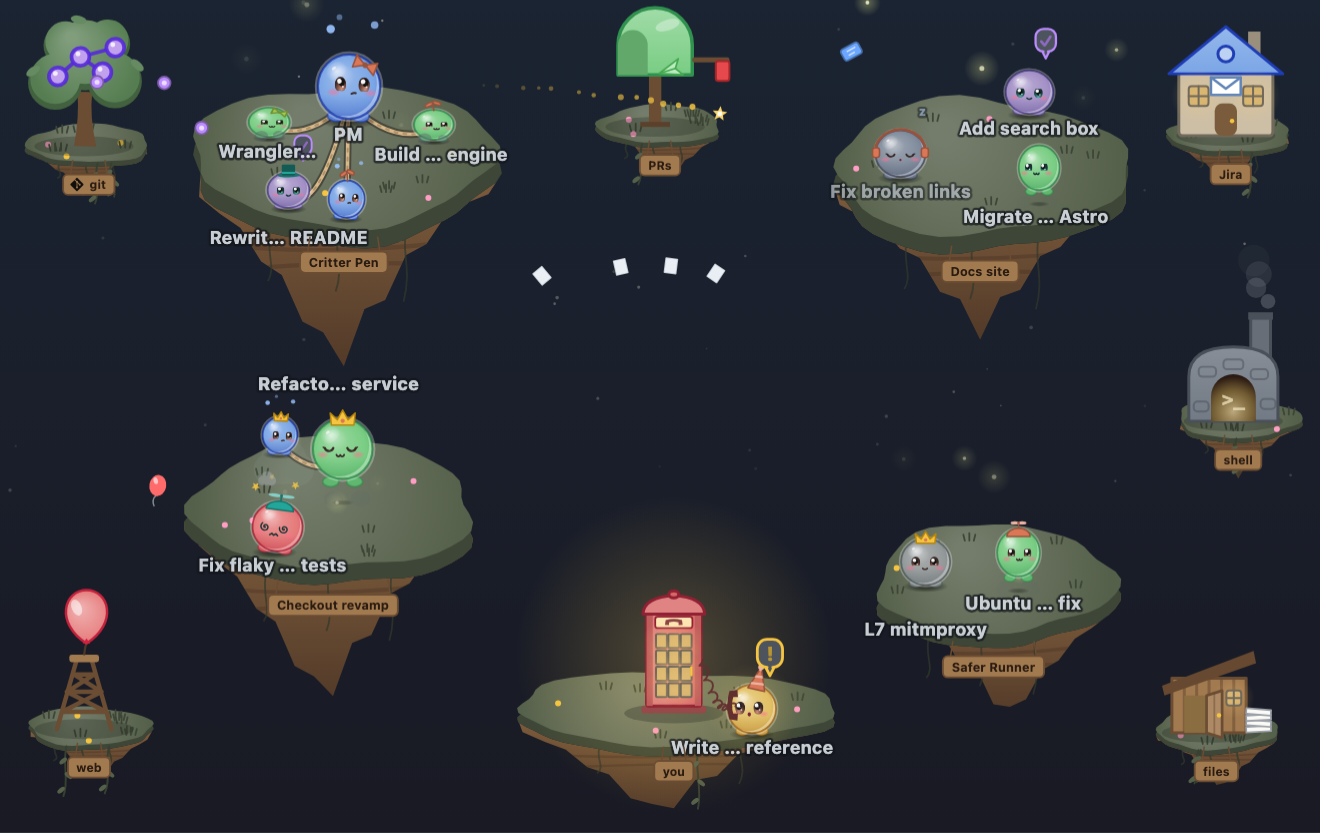
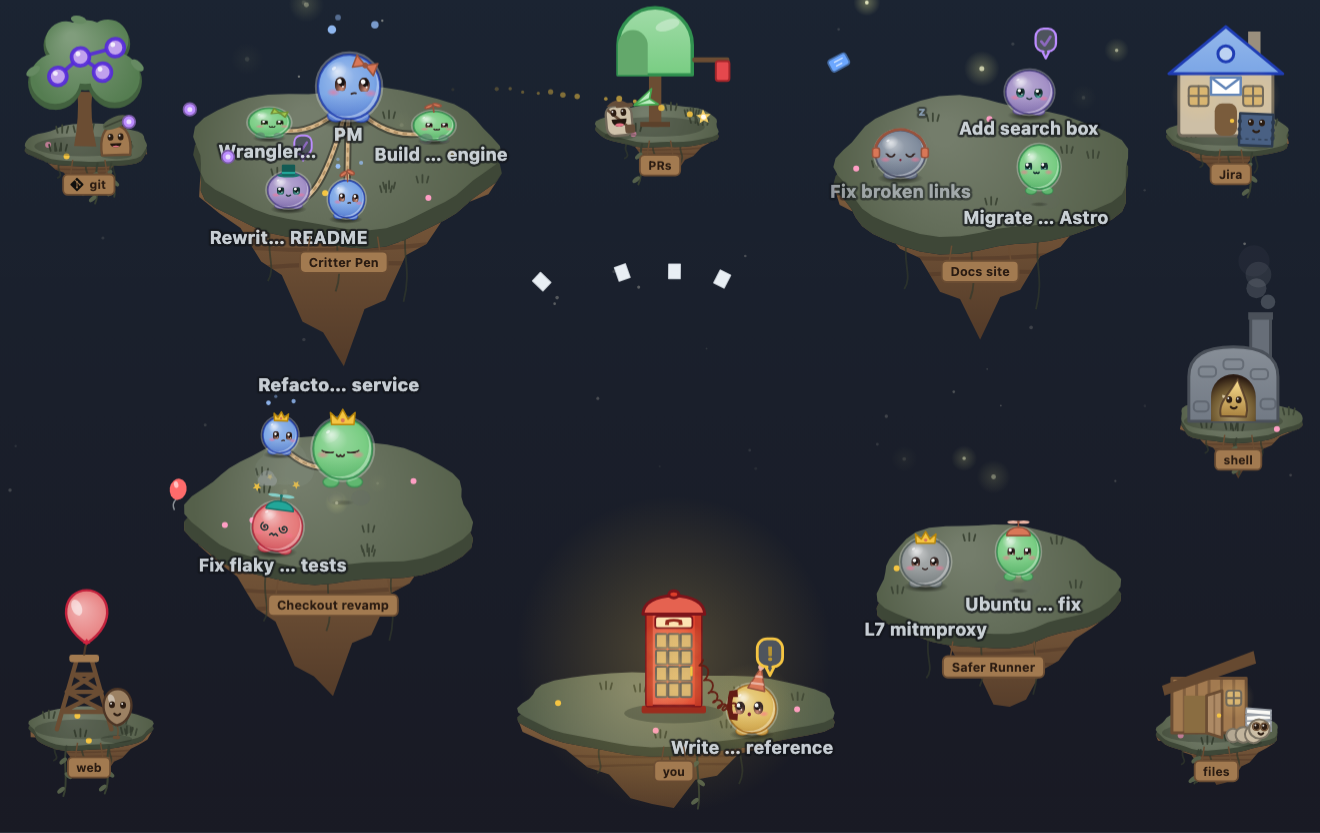
Wire the service keepers: projectiles land in their mouths
- Projectiles aim at keeperMouth (riding the islet bob); each launch records
  its landing time so the keeper anticipates, chomps on landing and goes
  full after a burst (catchStateAt over catchProgress/recentCatches).
- Under reduced motion the projectile fades out at the keeper's mouth.
- Keepers are blocked areas for name labels and show their name on hover
  (no click). Event labels float clear of the keeper.
- README 'Keepers' line, DESIGN paragraph, catch-state test, screenshots.

diff --git a/public/engine/pen.js b/public/engine/pen.js
@@ -7,6 +7,7 @@ import { readTheme, toCss, mix, lighten, darken, statusColor } from './color.js'
 import { computeLayout, islandPoint, pickAt, LANDMARK_LABELS } from './layout.js';
 import { createWander, stepWander, wanderPace, separate, islandAxes, PERSONAL_SPACE, DEPTH_WEIGHT } from './wander.js';
 import { drawIsland, drawSignpost, drawBuilding, drawLeash } from './scene.js';
+import { drawKeeper, keeperMouth, keeperHitbox, catchProgress, recentCatches, KEEPER_NAMES } from './buildings.js';
 import { drawCarrier, drawServiceBuilding, drawCaptionPlank, isletFootprint, isletBob, bellQueueSlots, buildingFootprint,
   PHONE_HOLDER_SLOT, phoneSocket, receiverSpot, drawPhoneReceiver } from './buildings.js';
 import { placeLabels, stripTaskPrefix, shortLabel } from './labels.js';
@@ -31,6 +32,20 @@ const FONT_FLOAT = '700 11px system-ui, -apple-system, Segoe UI, sans-serif';
 
 /** Body colour for a status in the current palette (pastel-tuned; lives in color.js). */
 export { statusColor };
+
+/**
+ * A keeper's catch state from the landing times of projectiles aimed at it
+ * (past and still in flight): the newest catch in progress, and how many
+ * landed in the last moment (enough of them and it looks full).
+ */
+export function catchStateAt(lands, now) {
+  let progress = null, latest = -Infinity;
+  for (const at of lands) {
+    const p = catchProgress(now, at);
+    if (p != null && at > latest) { latest = at; progress = p; }
+  }
+  return { progress, recent: recentCatches(lands, now) };
+}
 
 /**
  * Mount a pen into `el` (which must have a size; the canvas fills it).
@@ -65,6 +80,8 @@ export function createPen(el, opts = {}) {
   // ── islands / wander ──
   const islandViz = new Map(); // taskId → eased island geometry + bob
   const bellQueue = []; // ids of critters waiting at the bell, in arrival order
+  const keeperLands = new Map(); // kind → landing times (past and in flight) of projectiles at its keeper
+  let hoveredKeeper = null;
   const projectiles = [], particles = [], floaters = [];
   const lmState = new Map(LANDMARK_KINDS.map((k) => [k, { pulseAge: 9, ringAge: 9, glowAge: 9, wiggleAge: 9 }]));
   const pendingBaby = new Map(); // parentId → { x, y, at }
@@ -244,6 +261,14 @@ export function createPen(el, opts = {}) {
         s.visit = { lm, age: 0, stage: 'go', label: ev.label };
         return;
       }
+      const mouth = keeperTarget(ev.kind);
+      if (from && reduced && mouth) {
+        // Reduced motion: no flight; the projectile fades into the keeper's mouth.
+        projectiles.push({ kind: ev.kind, fadeAt: mouth, p0: mouth, p1: mouth, p2: mouth, age: 0, delay: 0, dur: 0.45, last: true, label: ev.label, lm });
+        noteLanding(ev.kind, time + 0.45);
+        flash(s, kindColor(ev.kind, pal));
+        return;
+      }
       if (!from || reduced) {
         hitLandmark(lm, ev.label);
         if (alive) flash(s, kindColor(ev.kind, pal));
@@ -292,7 +317,8 @@ export function createPen(el, opts = {}) {
     s.throwAge = 0;
     s.lookAt = { x: lm.x, y: lm.y };
     s.lookUntil = time + 1.2;
-    const to = { x: lm.x, y: lm.y };
+    // Aim for the service keeper's mouth (it catches and eats them), else the building.
+    const to = keeperTarget(kind) || { x: lm.x, y: lm.y };
     const dist = Math.hypot(to.x - from.x, to.y - from.y);
     const base = clamp(dist / 520, 0.55, 1.15);
     const count = kind === 'git' ? 3 : kind === 'files' ? 4 : 1;
@@ -301,13 +327,42 @@ export function createPen(el, opts = {}) {
       const ctl = arcControl(from, to, 6);
       ctl.x += jitter;
       if (kind === 'web') ctl.y = Math.max(6, ctl.y - 40);
-      projectiles.push({
+      const p = {
         kind, p0: { ...from }, p1: ctl, p2: to, age: 0,
         delay: 0.08 + i * (kind === 'git' ? 0.11 : 0.06),
         dur: kind === 'web' ? base * 1.7 : base + i * 0.03,
         last: i === count - 1, label, lm, sway: kind === 'web' ? 10 : 0,
-      });
+      };
+      projectiles.push(p);
+      noteLanding(kind, time + p.delay + p.dur); // the keeper starts its catch just before
     }
+  }
+
+  /** Where a service keeper's mouth is now (riding its islet), or null if it has none. */
+  function keeperTarget(kind) {
+    const isl = layout?.islets?.find((i) => i.kind === kind);
+    const m = isl && keeperMouth(kind, isl.scale);
+    if (!m) return null;
+    const base = isletBase(isl);
+    return { x: base.x + m.dx, y: base.y + m.dy };
+  }
+
+  function noteLanding(kind, at) {
+    if (!keeperLands.has(kind)) keeperLands.set(kind, []);
+    const list = keeperLands.get(kind);
+    list.push(at);
+    while (list.length && list[0] < time - 3) list.shift(); // only the last few seconds matter
+  }
+
+  /** The service keeper (not the phone box's) under (x, y), for its hover tooltip. */
+  function pickKeeper(x, y) {
+    for (const isl of layout?.islets || []) {
+      const hb = keeperHitbox(isl.kind, isl.scale);
+      if (!hb) continue;
+      const base = isletBase(isl);
+      if (Math.hypot(x - (base.x + hb.dx), y - (base.y + hb.dy)) <= hb.r) return isl;
+    }
+    return null;
   }
 
   function hitLandmark(lm, label) {
@@ -316,8 +371,17 @@ export function createPen(el, opts = {}) {
     if (lm.kind === 'human') st.wiggleAge = 0;
     if (!reduced) burst(lm.x, lm.y, 'spark', 7, kindColor(lm.kind, pal));
     if (label) {
-      const dir = lm.side === 'top' ? 1 : -1;
-      floatText(label, lm.x, lm.y + dir * (lm.r + 16), kindColor(lm.kind, pal), dir);
+      const isl = lm.islet && layout?.islets?.find((i) => i.kind === lm.kind);
+      if (isl) {
+        // Rise from above the building, clear of its keeper; if that's off the top
+        // of the pen, drop from under its caption plank instead.
+        const base = isletBase(isl), top = base.y - buildingFootprint(isl.kind, isl.scale).top - 12;
+        if (top > 30) floatText(label, base.x, top, kindColor(lm.kind, pal), -1);
+        else floatText(label, isl.x, base.captionY + 30, kindColor(lm.kind, pal), 1);
+      } else {
+        const dir = lm.side === 'top' ? 1 : -1;
+        floatText(label, lm.x, lm.y + dir * (lm.r + 16), kindColor(lm.kind, pal), dir);
+      }
     }
   }
 
@@ -438,6 +502,8 @@ export function createPen(el, opts = {}) {
     for (const i of layout.islets) {
       const bf = buildingFootprint(i.kind, i.scale), base = isletBase(i);
       out.push({ l: base.x - bf.w / 2, r: base.x + bf.w / 2, t: base.y - bf.top, b: base.y });
+      const hb = keeperHitbox(i.kind, i.scale);
+      if (hb) out.push({ l: base.x + hb.dx - hb.r, r: base.x + hb.dx + hb.r, t: base.y + hb.dy - hb.r, b: base.y + hb.dy + hb.r });
       const sc = clamp(i.scale, 0.8, 1.2), w = (ctx.measureText(LANDMARK_LABELS[i.kind]).width + 14) * sc;
       out.push({ l: i.x - w / 2, r: i.x + w / 2, t: base.captionY, b: base.captionY + 17 * sc });
     }
@@ -612,7 +678,7 @@ export function createPen(el, opts = {}) {
       const p = projectiles[i];
       if (p.delay > 0) { p.delay -= dt; continue; }
       p.age += dt;
-      if (p.kind === 'terminal' && rnd() < 0.7) {
+      if (p.kind === 'terminal' && !p.fadeAt && rnd() < 0.7) {
         const pos = quad(p.p0, p.p1, p.p2, Math.min(1, p.age / p.dur));
         addParticle({ type: 'spark', x: pos.x, y: pos.y, vx: (rnd() - 0.5) * 30, vy: (rnd() - 0.5) * 30, life: 0.35, size: 1.5 + rnd(), color: pal.yellow, drag: 0.9 });
       }
@@ -1063,6 +1129,13 @@ export function createPen(el, opts = {}) {
     // Projectiles.
     for (const p of projectiles) {
       if (p.delay > 0) continue;
+      if (p.fadeAt) { // reduced motion: fade into the keeper's mouth, no flight
+        ctx.save();
+        ctx.globalAlpha *= 1 - clamp(p.age / p.dur, 0, 1);
+        drawProjectile(ctx, p.kind, p.fadeAt.x, p.fadeAt.y, 0, 0, pal, clamp(layout.radius / 16, 0.75, 1.25));
+        ctx.restore();
+        continue;
+      }
       const k = clamp(p.age / p.dur, 0, 1);
       const tk = p.kind === 'web' ? ease.inOutSine(k) : k;
       const pos = quad(p.p0, p.p1, p.p2, tk);
@@ -1119,6 +1192,20 @@ export function createPen(el, opts = {}) {
       ctx.fillText(f.text, x, y + 0.5);
     }
 
+    // Hover tooltip for a service keeper: just its name.
+    if (hoveredKeeper && layout.islets?.includes(hoveredKeeper)) {
+      const hb = keeperHitbox(hoveredKeeper.kind, hoveredKeeper.scale), base = isletBase(hoveredKeeper);
+      const text = KEEPER_NAMES[hoveredKeeper.kind];
+      ctx.font = '600 12px system-ui, -apple-system, Segoe UI, sans-serif';
+      const w = ctx.measureText(text).width + 16;
+      const x = clamp(base.x + hb.dx, w / 2 + 4, W - w / 2 - 4), y = Math.max(16, base.y + hb.dy - hb.r - 14);
+      ctx.fillStyle = toCss(pal.fg, 0.92);
+      roundRect(ctx, x - w / 2, y - 11, w, 22, 6); ctx.fill();
+      ctx.fillStyle = toCss(pal.bg);
+      ctx.textAlign = 'center'; ctx.textBaseline = 'middle';
+      ctx.fillText(text, x, y + 0.5);
+    }
+
     // Hover tooltip: full name + status.
     const hs = hovered && sprites.get(hovered);
     if (hs && hs.life !== 'leave') {
@@ -1141,6 +1228,8 @@ export function createPen(el, opts = {}) {
     const hit = reduced ? 0 : clamp(1 - st.pulseAge / 0.9, 0, 1);
     const base = drawCarrier(ctx, 'islet', i.kind, i.x, i.y, i.scale, pal, time, { reduced });
     drawServiceBuilding(ctx, i.kind, base.x, base.y, i.scale, pal, time, { hit, waiting: i.kind === 'human' && needsYou ? 1 : 0, reduced });
+    // Its keeper stands in front, catching what's thrown at it (the phone box has none).
+    drawKeeper(ctx, i.kind, base.x, base.y, i.scale, pal, time, catchStateAt(keeperLands.get(i.kind) || [], time), { reduced });
   }
 
   // ── loop, sizing, theme, input ─────────────────────────────────────────────
@@ -1213,9 +1302,10 @@ export function createPen(el, opts = {}) {
     pointer = { x: ev.clientX - rect.left, y: ev.clientY - rect.top }; // ── personality hooks ──
     const s = pick(ev);
     hovered = s ? s.id : null;
+    hoveredKeeper = s ? null : pickKeeper(pointer.x, pointer.y); // keepers: a name on hover, no click
     canvas.style.cursor = s ? 'pointer' : '';
   };
-  const onLeave = () => { hovered = null; pointer = null; canvas.style.cursor = ''; };
+  const onLeave = () => { hovered = null; hoveredKeeper = null; pointer = null; canvas.style.cursor = ''; };
   const onClick = (ev) => {
     if (!ev.isTrusted) return; // only a real human click may open a session
     const s = pick(ev);

diff --git a/public/engine/test/pen.test.js b/public/engine/test/pen.test.js
@@ -141,3 +141,21 @@ test('reduced motion: no personality behaviours or ambient particles, even over 
   }
   pen.destroy();
 });
+
+test('keeper catch state: anticipation before landing, the chomp at landing, full after a burst', async () => {
+  const { catchStateAt } = await import('../pen.js');
+  const { CATCH, LAND, FULL_AT } = await import('../buildings.js');
+  const land = 10;
+  const before = catchStateAt([land], land - 0.2);
+  assert.ok(before.progress > 0 && before.progress < LAND, 'winding up before it lands');
+  assert.equal(before.recent, 0, 'nothing has landed yet');
+  assert.ok(Math.abs(catchStateAt([land], land).progress - LAND) < 1e-9, 'chomp exactly at landing');
+  assert.equal(catchStateAt([land], land - CATCH.lead - 0.01).progress, null, 'idle before the window');
+  assert.equal(catchStateAt([land], land - CATCH.lead + CATCH.dur + 0.01).progress, null, 'idle after it');
+  // Several overlapping catches: the newest drives the pose; a quick burst makes it full.
+  const burst = [land, land + 0.2, land + 0.4];
+  const s = catchStateAt(burst, land + 0.45);
+  assert.equal(s.progress, catchStateAt([land + 0.4], land + 0.45).progress);
+  assert.ok(s.recent >= FULL_AT, 'full after a burst');
+  assert.ok(catchStateAt(burst, land + 2.5).recent < FULL_AT, 'digested a moment later');
+});

diff --git a/DESIGN.md b/DESIGN.md
@@ -100,7 +100,17 @@ box (`buildings.bellQueueSlots`); the one at the front (`PHONE_HOLDER_SLOT`) sta
 holding the receiver on its curly cord, and the phone rings while anyone waits (no
 count: another extension shows that). Projectiles arc from the critter to the service's
 building: git = little commit dots, PR = paper plane, Jira = ticket card, terminal =
-sparks, files = paper scraps, web = tiny balloon; the building plays its hit animation.
+sparks, files = paper scraps, web = tiny balloon. Each service islet except the phone
+box has a **keeper** (`buildings.js`/`keepers.js`, the artist's) standing in front of its
+building: projectiles aim at the keeper's mouth (`keeperMouth`, riding the islet's
+bob) and every launch records its landing time, so the keeper winds up just before
+impact, chomps on landing and goes "full" after three catches within a second
+(`catchProgress`/`recentCatches`, combined by `pen.catchStateAt`). The building still
+plays its hit animation. Keepers never move and never affect layout; they are
+blocked areas for name labels and show their name on hover, with no click. Under
+reduced motion a projectile fades out at the keeper's mouth instead of flying. Event
+labels float up from above the building (or drop from under its caption plank when
+it's at the top of the pen), clear of the keeper.
 
 Below 170px tall (the `board.tray` strip) the pen falls back to a single row of task
 clusters with the buildings shrunk into a strip on the right.

diff --git a/README.md b/README.md
@@ -29,6 +29,10 @@ PR mailbox, a ticket at the Jira post office.
   with its red phone box sits front and centre: critters that need you hop over and
   queue outside, the front one holding the receiver, and the phone rings while anyone
   waits.
+- **Keepers:** each service islet (not the phone box) has a little keeper standing in
+  front of its building that catches what's thrown at it: it opens wide as a commit,
+  plane or ticket arrives, chomps, and looks round-bellied and full after a quick
+  burst. Hover one for its name ("git keeper"); they aren't clickable.
 - **A steady view:** nothing moves the scene but a resize of the pen. Islands and islets
   stay exactly where they are as sessions change status, do things, spawn or finish. A
   new task's island appears in free space; a closed task's island fades where it was
